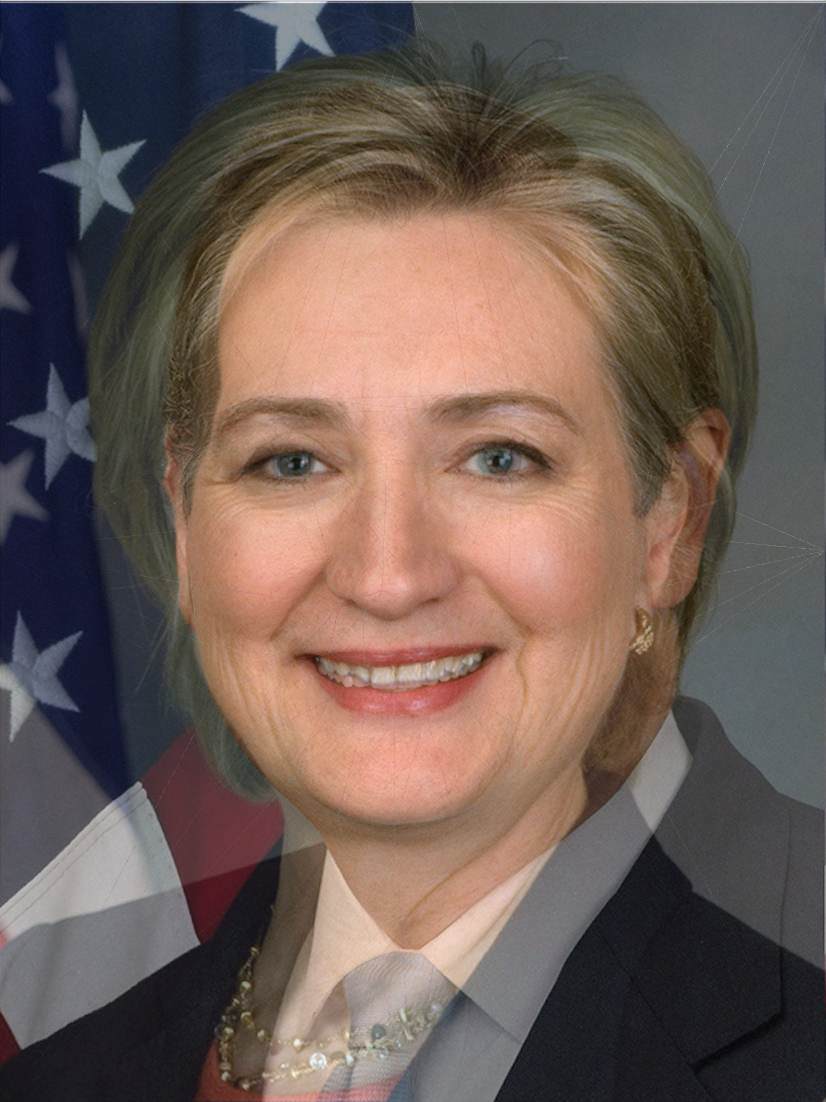
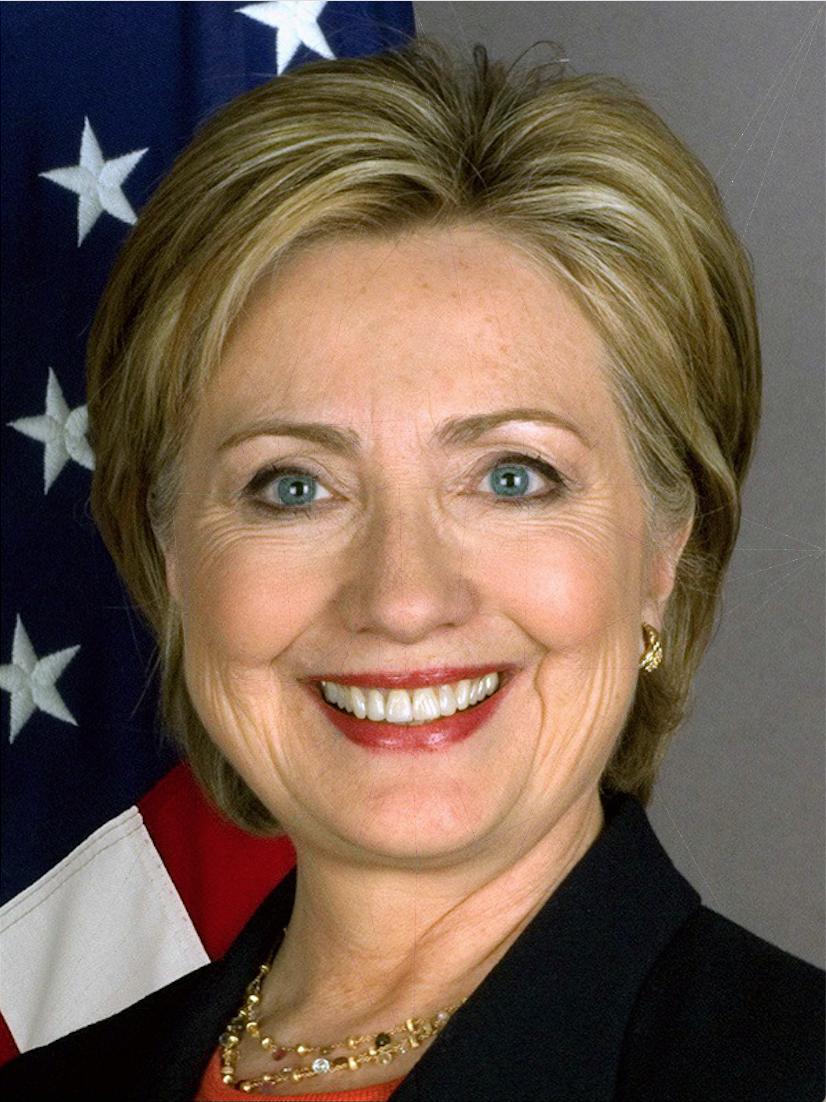
finish testing and fix some bugs

diff --git a/face_morphing1.py b/face_morphing1.py
@@ -22,33 +22,11 @@ def maxone(x, y):
 
 def mark_points(img, points):
     for point in points:
-        img[point[1]][point[0]][0] = 255
-        img[point[1]][point[0]][1] = 0
-        img[point[1]][point[0]][2] = 0
-        img[point[1]+1][point[0]][0] = 255
-        img[point[1]+1][point[0]][1] = 0
-        img[point[1]+1][point[0]][2] = 0
-        img[point[1]-1][point[0]][0] = 255
-        img[point[1]-1][point[0]][1] = 0
-        img[point[1]-1][point[0]][2] = 0
-        img[point[1]][point[0]+1][0] = 255
-        img[point[1]][point[0]+1][1] = 0
-        img[point[1]][point[0]+1][2] = 0
-        img[point[1]][point[0]-1][0] = 255
-        img[point[1]][point[0]-1][1] = 0
-        img[point[1]][point[0]-1][2] = 0
-        img[point[1]+1][point[0]+1][0] = 255
-        img[point[1]+1][point[0]+1][1] = 0
-        img[point[1]+1][point[0]+1][2] = 0
-        img[point[1]+1][point[0]-1][0] = 255
-        img[point[1]+1][point[0]-1][1] = 0
-        img[point[1]+1][point[0]-1][2] = 0
-        img[point[1]-1][point[0]+1][0] = 255
-        img[point[1]-1][point[0]+1][1] = 0
-        img[point[1]-1][point[0]+1][2] = 0
-        img[point[1]-1][point[0]-1][0] = 255
-        img[point[1]-1][point[0]-1][1] = 0
-        img[point[1]-1][point[0]-1][2] = 0
+        for i in range(0, 5):
+            for j in range(0, 5):
+                img[point[1]-2+i][point[0]-2+j][0] = 0
+                img[point[1]-2+i][point[0]-2+j][1] = 0
+                img[point[1]-2+i][point[0]-2+j][2] = 255
     return img
 
 def is_contain(rect, point):
@@ -86,25 +64,24 @@ def cat_img(img1, ratio1, img2, ratio2):
     img3 = img1 * ratio1 + img2 * ratio2
     return img3
 
-def get_feature_points(img, dlibDector, dlibPredictor):
+def get_feature_points(img, dlibDector, dlibPredictor, with_boundary=True):
     dets = dlibDector(img, 1)
-    if len(dets) != 1:
-        print ("Face number is not 1!!!")
-        return []
-    
     shape = dlibPredictor(img, dets[0])
     keyPoints = []
     for i in range(0, shape.num_parts):
         keyPoints.append((shape.part(i).x, shape.part(i).y))
-    imgshape = img.shape
-    keyPoints.append((0, 0))
-    keyPoints.append((0, imgshape[0] - 1))
-    keyPoints.append((0, (imgshape[0] - 1) / 2))
-    keyPoints.append(((imgshape[1] - 1) / 2, 0))
-    keyPoints.append(((imgshape[1] - 1) / 2, imgshape[0] - 1))
-    keyPoints.append((imgshape[1] - 1, 0))
-    keyPoints.append((imgshape[1] - 1, (imgshape[0] - 1) / 2))
-    keyPoints.append((imgshape[1] - 1, imgshape[0] - 1))
+    
+    if with_boundary:
+        imgshape = img.shape
+        keyPoints.append((0, 0))
+        keyPoints.append((0, imgshape[0] - 1))
+        keyPoints.append((0, (imgshape[0] - 1) / 2))
+        keyPoints.append(((imgshape[1] - 1) / 2, 0))
+        keyPoints.append(((imgshape[1] - 1) / 2, imgshape[0] - 1))
+        keyPoints.append((imgshape[1] - 1, 0))
+        keyPoints.append((imgshape[1] - 1, (imgshape[0] - 1) / 2))
+        keyPoints.append((imgshape[1] - 1, imgshape[0] - 1))
+
     return keyPoints
 
 #face_morphing
@@ -138,23 +115,21 @@ def fill_morph(img_target, img_source, triangle1, triangle2):
     img_transpose = np.transpose(np.nonzero(img_target * img_tmp))
     img_target = img_target + img_tmp
     for i in img_transpose:
-        img_target[i[0]][i[1]] = (img_target[i[0]][i[1]] + img_tmp[i[0]][i[1]]) / 2
+        img_target[i[0]][i[1]] = img_target[i[0]][i[1]] / 2 + img_tmp[i[0]][i[1]] / 2
 
     return img_target
 
 def face_morphing(img1, img2, points1, points2, ratio):
     points3 = points1 * ratio + points2 * (1 - ratio)
     points3 = points3.astype("uint32")
-    for i in range(0, len(points3)):
-        points3[i] = (points3[i, 0], points3[i, 1])
 
     imgshape2 = img2.shape
     rect2 = (0, 0, imgshape2[1], imgshape2[0])
     subdiv = cv.Subdiv2D(rect2)
 
     #print(len(points3))
-    for i in points3:
-        subdiv.insert((i[0], i[1]))
+    for i in range(0, len(points3)):
+        subdiv.insert((points3[i][0], points3[i][1]))
     triangles3 = subdiv.getTriangleList()
     triangle_id = []
     for i in triangles3:
@@ -190,6 +165,7 @@ def face_morphing(img1, img2, points1, points2, ratio):
 predictor_path = "shape_predictor_68_face_landmarks.dat"
 face_path1 = input_url + "/hilary.png"
 face_path2 = input_url + "/cruz.png"
+face_path3 = input_url + "/trump.png"
 save_path = output_url + "/test.png"
 face_detector = dlib.get_frontal_face_detector()
 shape_predictor = dlib.shape_predictor(predictor_path)
@@ -214,9 +190,13 @@ if len(points1) == 0 or len(points2) == 0:
 points_array1 = np.array(points1)
 points_array2 = np.array(points2)
 
-img3 = face_morphing(img1, img2, points_array1, points_array2, 0.5)
+#img3 = face_morphing(img1, img2, points_array1, points_array2, 0.5)
+for i in range(1, 6):
+    img3 = face_morphing(img1, img2, points_array1, points_array2, i/6)
+    cv.imwrite(output_url + "/mid" + str(i) + ".png", img3 )
 
 #标记特征点
-#img = mark_points(img, points)
+# points = get_feature_points(img2, face_detector, shape_predictor, False)
+# img = mark_points(img2, points)
 
-cv.imwrite(save_path, img3 )
+#cv.imwrite(save_path, img3 )
